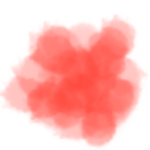
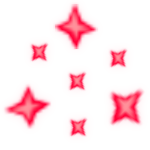
tuned jump, add new button img

diff --git a/app/src/main/java/com/voxcom/rollerrush/player/PlayerController.kt b/app/src/main/java/com/voxcom/rollerrush/player/PlayerController.kt
@@ -6,11 +6,6 @@ import java.util.concurrent.atomic.AtomicBoolean
 import kotlin.math.max
 import kotlin.math.sqrt
 
-/**
- * Player movement: gravity, jumping, ground detection, landing.
- * Reads every tunable from [SkateStats], so upgrades never require changes here.
- * All motion is deltaTime based.
- */
 class PlayerController(private val player: Player, var stats: SkateStats) {
 
     // Touch events arrive on the UI thread, the game loop runs on its own thread.
@@ -22,7 +17,7 @@ class PlayerController(private val player: Player, var stats: SkateStats) {
     private var jumpAnticipationStarted = false
 
     companion object {
-        private const val JUMP_CROUCH_DELAY = 0.12f
+        private const val JUMP_CROUCH_DELAY = 0.10f
     }
 
     fun requestJump() = jumpRequested.set(true)

diff --git a/app/src/main/java/com/voxcom/rollerrush/utils/AssetManager.kt b/app/src/main/java/com/voxcom/rollerrush/utils/AssetManager.kt
@@ -314,7 +314,7 @@ class AssetManager(private val context: Context) {
         val particleFile = ShopCatalog.skate(ch.skateSkin)
             ?.particleName
             ?.takeIf { it.isNotBlank() }
-            ?: "particle_redstreet.png"
+            ?: "particle_cross_rider.png"
 
         val particleColor = when (ch.skateSkin) {
             "skate_ice" -> Color.rgb(100, 225, 255)

diff --git a/app/src/main/java/com/voxcom/rollerrush/player/PlayerAnimator.kt b/app/src/main/java/com/voxcom/rollerrush/player/PlayerAnimator.kt
@@ -647,7 +647,7 @@ class PlayerAnimator(private val player: Player) {
         const val AIR_TAKEOFF_BLEND_RATE = 4.5f
         const val AIR_LANDING_BLEND_RATE = 7.5f
 
-        const val JUMP_CROUCH_DURATION = 0.12f
+        const val JUMP_CROUCH_DURATION = 0.10f
         const val JUMP_EXTENSION_DURATION = 0.18f
 
         const val JUMP_TOTAL_TRANSITION =
